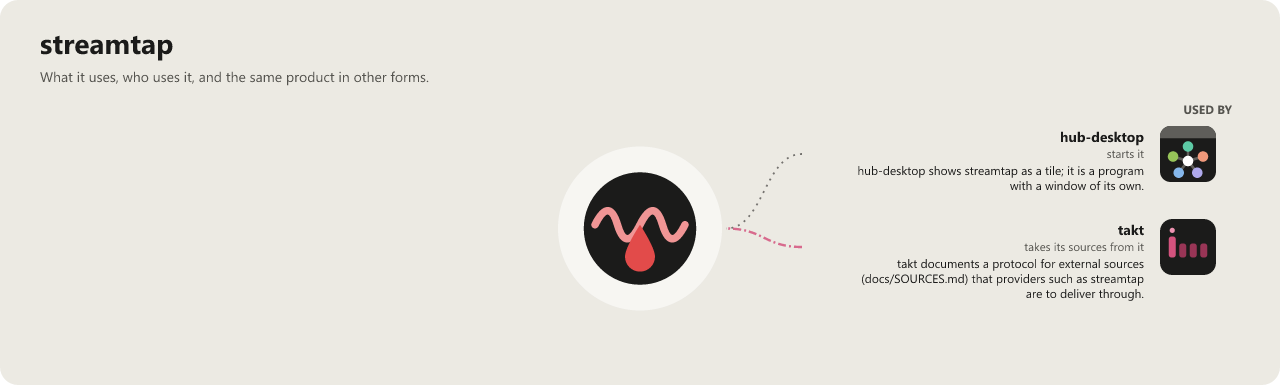
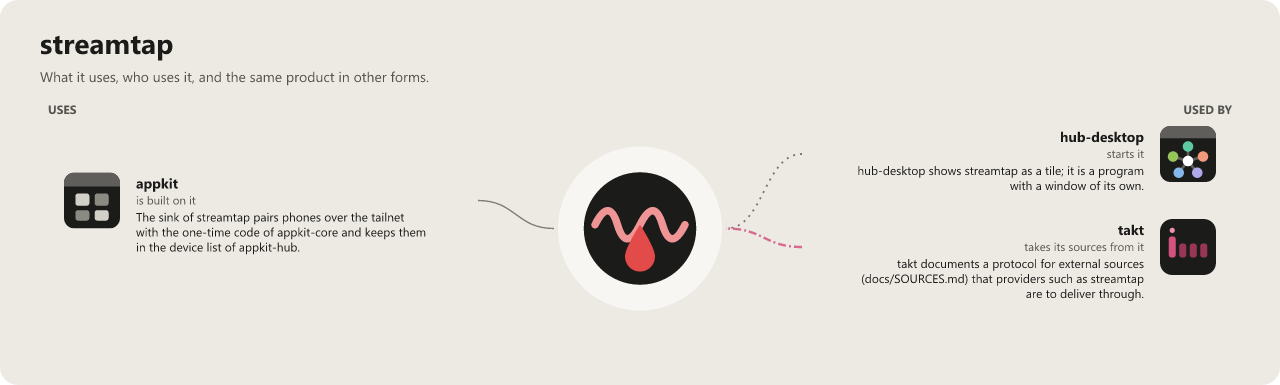
docs(graphs): connections through optional loaders, programs, HTTP and files
The connections picture and the README block now also show what the require rule did not see: optional loads through soft_require, lib.nvim.require.safe and package.loaded, and connections over programs, HTTP and files, each with a line of code as evidence. Written by the app-icons tool of the workshop (graphs.mjs install-repos).

Changed region(s): [[0.0312, 0.4364, 0.3438, 0.6545], [0.0312, 0.2494, 0.0625, 0.3117], [0.4062, 0.561, 0.4375, 0.5922]]

diff --git a/README.md b/README.md
@@ -214,6 +214,10 @@ MIT, see [LICENSE](LICENSE).
 
 ![streamtap: what it uses and what uses it](assets/graphs/streamtap.png)
 
+**Uses**
+
+- [appkit](https://github.com/WKDSteve/appkit): The sink of streamtap pairs phones over the tailnet with the one-time code of `appkit-core` and keeps them in the device list of `appkit-hub`. ([picture](assets/graphs/pair/streamtap--appkit.png))
+
 **Used by**
 
 - [hub-desktop](https://github.com/WKDSteve/hub-desktop): hub-desktop shows streamtap as a tile; it is a program with a window of its own. ([picture](assets/graphs/pair/hub-desktop--streamtap.png))
